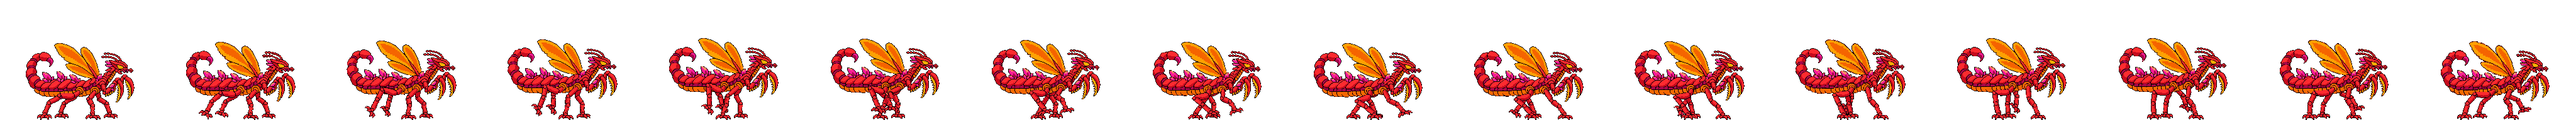
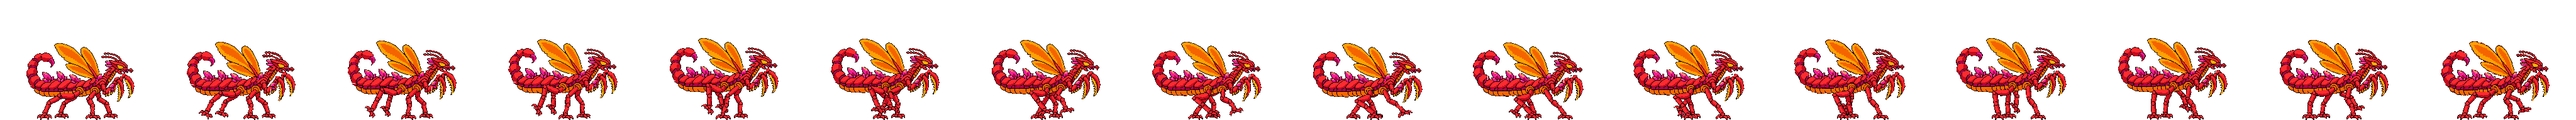
Swing Myrmex Stage 3's tail and scythe forelegs in the walk
tools/myrmex_s3_sway.py cuts the tail and arm pixels per frame (following
the bob) and rotates them RotSprite style about their roots: tail +/-5
deg, scythes +/-6 deg in opposite phase, one swing per stride.

Claude-Session: https://claude.ai/code/session_01SJ9dCvdt4BM19y3QYCELUi

diff --git a/tools/myrmex_s3_sway.py b/tools/myrmex_s3_sway.py
@@ -1,0 +1,53 @@
+#!/usr/bin/env python3
+"""Swing Myrmex Stage 3's tail and scythe forelegs on a finished strip (PixelLab moves only the body and legs).
+
+Usage: python3 -I tools/myrmex_s3_sway.py in.png out.png [--tail DEG] [--arms DEG] [--tail-phase P] [--arms-phase P] [--cycles N]
+
+Per frame the strip's own pixels are cut by region (offset by the frame's bob, measured from the top of the wings against frame 0),
+erased, rotated RotSprite style (Scale2x three times, rotate at 8x, sample centres) about a pivot and pasted back. Angles follow
+sin(2*pi*(N*i/frames + phase)); positive = clockwise (the tail tip leans forward, the blades swing back under the body).
+Regions are in base coordinates (myrmex-s3.png, 173x123 sprite at x=41, feet on row 191):
+  tail:  (x < 62 and y < 138) or (x < 88 and 81 <= y < 112), the curl above the back left of the first crystal; pivot (58, 135)
+  arms:  y < 170 and (x >= 195, y >= 119 | x >= 182, y >= 123 | x >= 174, y >= 133): both scythe forelegs, stepped round the jaw
+         (ends row 118) and the orange throat (x < 182 above row 133), clear of the front legs; pivot (176, 138) at the shoulder
+"""
+import argparse, math, numpy as np
+from PIL import Image
+ap = argparse.ArgumentParser(); ap.add_argument('src'); ap.add_argument('out')
+ap.add_argument('--tail', type=float, default=5); ap.add_argument('--arms', type=float, default=6)
+ap.add_argument('--tail-phase', type=float, default=.125); ap.add_argument('--arms-phase', type=float, default=.625)
+ap.add_argument('--cycles', type=float, default=1)
+A = ap.parse_args(); FW = 256
+
+def scale2x(im):
+    p = np.pad(im, ((1, 1), (1, 1), (0, 0)), mode='edge'); P = p[1:-1, 1:-1]
+    a, b, c, d = p[:-2, 1:-1], p[1:-1, 2:], p[1:-1, :-2], p[2:, 1:-1]; eq = lambda u, v: (u == v).all(-1)
+    o = np.repeat(np.repeat(P, 2, 0), 2, 1).copy()
+    c0 = eq(c, a) & ~eq(c, d) & ~eq(a, b); c1 = eq(a, b) & ~eq(a, c) & ~eq(b, d)
+    c2 = eq(d, c) & ~eq(d, b) & ~eq(c, a); c3 = eq(b, d) & ~eq(b, a) & ~eq(d, c)
+    o[0::2, 0::2][c0] = a[c0]; o[0::2, 1::2][c1] = b[c1]; o[1::2, 0::2][c2] = c[c2]; o[1::2, 1::2][c3] = d[c3]
+    return o
+
+def rot(layer, deg, cx, cy):
+    if abs(deg) < 1e-3: return layer
+    u = scale2x(scale2x(scale2x(layer))); H, W = layer.shape[:2]
+    gy, gx = np.mgrid[0:H, 0:W]; px, py = gx + .5 - cx, gy + .5 - cy; t = math.radians(deg)
+    sx = cx + px * math.cos(t) + py * math.sin(t); sy = cy - px * math.sin(t) + py * math.cos(t)
+    ix = np.floor(sx * 8).astype(int); iy = np.floor(sy * 8).astype(int)
+    ok = (ix >= 0) & (iy >= 0) & (ix < W * 8) & (iy < H * 8); o = np.zeros_like(layer); o[ok] = u[iy[ok], ix[ok]]
+    return o
+
+im = np.asarray(Image.open(A.src).convert('RGBA')).copy(); n = im.shape[1] // FW
+yy, xx = np.mgrid[0:im.shape[0], 0:FW]
+top = lambda f: int(np.nonzero((f[..., 3] > 0).any(1))[0].min()); t0 = top(im[:, :FW])
+PARTS = [('tail', lambda x, y: ((x < 62) & (y < 138)) | ((x < 88) & (y >= 81) & (y < 112)), (58, 135), A.tail, A.tail_phase),
+         ('arms', lambda x, y: (((x >= 195) & (y >= 119)) | ((x >= 182) & (y >= 123)) | ((x >= 174) & (y >= 133))) & (y < 170), (176, 138), A.arms, A.arms_phase)]
+for i in range(n):
+    f = im[:, i * FW:(i + 1) * FW]; dy = top(f) - t0
+    for name, region, (px, py), amp, ph in PARTS:
+        m = (f[..., 3] > 0) & region(xx, yy - dy)
+        layer = np.where(m[..., None], f, 0).astype(np.uint8); f[m] = 0
+        r = rot(layer, amp * math.sin(2 * math.pi * (A.cycles * i / n + ph)), px + .5, py + dy + .5)
+        k = r[..., 3] > 0; f[k] = r[k]
+Image.fromarray(im).save(A.out, optimize=True)
+print(f'{A.out}: {n} frames, tail +/-{A.tail} deg, arms +/-{A.arms} deg')

diff --git a/README.md b/README.md
@@ -89,7 +89,7 @@ Score is earned points minus actual HP damage penalty, including healed damage. 
 
 **Myrmex Stage 1 art (complete, registered as `stages[1]`):** `myrmex-s1.png` is the young form: a wingless red ant (glossy segmented abdomen over an orange underbelly, small orange wing buds, a narrow horned skull with a glowing yellow eye and curved mandibles, six long clawed legs, and a short stinger instead of the Stage 2 scorpion tail). Keyed from the user's transparent render with `tools/key_render.py` (grid 11.655x11.995 px per art pixel; `--square` squashed him about 3%, so the measured y period stays) to a 116x74 sprite at x=70, feet on the bottom row of a 256x192 frame (`MX1_NATIVE`: scale 116/256). The stinger tip glowed yellow-orange like Stage 2's and was recoloured to hue 290 at its own lightness (6 pixels) so it reads as poison, not fire. Registered as `MYRMEX_S1` (`stages[1]`, width 120, `borrow`), so every move without Stage 1 art plays the Stage 2 strip. `myrmex-s1-idle` (breathing loop, 8 frames at 8 fps) and `myrmex-s1-walk` (one full stride, 16 frames at 15 fps) are seed 7 PixMiniMax rolls from the base with it as the end pose (seed 0's walk left stray specks; the idles were near-identical); subject "a young red ant kaiju with a segmented glossy red abdomen, orange underbelly, small orange wing buds, horned narrow skull with a glowing yellow eye, curved mandibles, six long clawed legs and a short purple-tipped stinger", pose "standing on six legs facing right, head held level". fill_pinholes and remove_specks (MAX 3); the walk is bottom-aligned (`tools/bottom_align.py`), since it rode up to 6px high mid-stride. `myrmex-s1-run` (Shift / double-tap, 12 frames at 20 fps like Stage 2's) is a seed 0 roll from the base with it as the end pose: a low fast scuttle, legs churning in a tripod gait, head thrust forward (prompt: "fast scuttling run cycle in place: one full stride, legs churning quickly in an alternating tripod gait with long reaching steps, body held low and level, head thrust forward, antennae swept back, no dust or effects"; the user picked it over seed 7 and two 8-frame takes at 15 fps). fill_pinholes, remove_specks (MAX 3), bottom-aligned (it rode 1-2px high). **Jump** (he keeps the floaty jump, two wing-beat air jumps and glide from `MOVE.myrmex*` at every stage, with the wing buds selling it; all seed 7, the user's pick, every strip fill_pinholes / remove_specks (MAX 3) and bottom-aligned since physics moves him): `myrmex-s1-jump-rise` (9 frames at 24 fps, once) is a roll from the base with a free end: he crouches, pushes off, the legs tuck and the wing buds flick up (seed 0 came back down to the street mid-strip); its last frame is the air pose the rest are rolled from. `myrmex-s1-jump-air` (4-frame loop at 12 fps, closed on the air pose) buzzes the buds with the legs dangling; `myrmex-s1-jump-flap` (5 frames at 20 fps, once, played on each air jump as `jumpFlap`, so Stage 1 never flashes the Stage 2 winged flap) snaps the buds up and down as the legs kick; `myrmex-s1-jump-land` (5 frames at 20 fps, once) plants the legs and sinks, its last frame swapped for the exact base so it hands off to the idle cleanly. **Crouch** (shared crouch timing: 5 frames at 22 fps, a 4-frame loop at 6 fps, then the reverse; seed 7, the user's pick, all fill_pinholes / remove_specks (MAX 3) and bottom-aligned): `myrmex-s1-crouch-down` is a roll from the base with a free end that flattens him onto six splayed legs with the head dipped and the wing buds folded, 74px tall down to 48 (0.65, like Stage 2's; seed 0 only reached 56); `myrmex-s1-crouch` is a loop rolled from and closed on that pose (slow breathing, antennae twitching, stinger swaying); `myrmex-s1-crouch-up` is crouch-down reversed. That completes his Stage 1 movement set. **Light combo** (bite, bite, sting; 9 frames each at the shared 24/21/20 fps; PixMiniMax rolls from the base shifted 40px left, origin x=30, `MX1_LEFT`, with it as the end pose, then the exact shifted base appended as frame 9 since the roll's closing duplicate is dropped; the user's picks): `myrmex-s1-light1` (seed 7) rears the head back with the mandibles open, lunges and snaps shut (seed 0 threw a big yellow impact flash that read as fire); `myrmex-s1-light2` (seed 7) dips low and lunges further with the jaws gaping, then wrenches back up (seed 0 drew white slash crescents); `myrmex-s1-light3` (seed 0) is a belly sting: Stage 1's short stinger can't whip overhead like Stage 2's tail, so he curls the abdomen down and forward between his legs and sprays purple venom out ahead, prompted with no fire and no orange (seed 7 put an orange spark on the hit). Bites remove_specks (MAX 3) and fill_pinholes; the sting fill_pinholes only, so the venom spray survives. **Heavy**, a charged belly sting (seed 0, the user's pick; PixMiniMax rolls from the shifted base, `MX1_LEFT`, shared heavy timing, prompts say no fire/orange/yellow; fill_pinholes only so the venom survives): `myrmex-s1-heavy-rear` (5 frames at 20 fps, a free-ended roll) braces the legs and curls the abdomen down under him, a purple bead forming on the stinger; its last frame is the cocked pose; `myrmex-s1-heavy-hold` (4-frame loop at 10 fps, closed on the cocked pose) quivers as the bead swells and drips; `myrmex-s1-heavy-slam` (8 frames at 16 fps: frames 1-7 of a roll from the cocked pose to the shifted base, its first frame (the cocked pose) dropped so the strike starts on release, plus the exact shifted base) blasts a long magenta venom jet into a spiky splash on the street, droplets raining after, and settles (seed 7's thick stream looked like it came from the head). Pound (S+J) reuses the slam. **Venom Bomb** (L, held; the game draws the bomb; PixMiniMax rolls from the shifted base, `MX1_LEFT`; the user's pick after a redo): a first set curled the abdomen under him and swelled the bubble over his body, so the brew was re-rolled with all six feet planted and the body level, the legs straightened to stand him up tall and make room underneath (asking for him to lift his legs flipped him upright like a hanging wasp and floated him off the street in all three seeds). `myrmex-s1-spit-brew` (5 frames at 8 fps, once, seed 7; seed 21 drew a bonfire, seeds 0 and 42 swelled the bubble behind him) stands tall and tucks the abdomen under him as a glossy purple bubble swells on the stinger low between the hind legs; `myrmex-s1-spit-hold` (4-frame loop at 8 fps, closed on that pose, seed 7) wobbles and drips it; `myrmex-s1-spit-throw` (6 frames at 18 fps, `impact:1`, seed 7; seed 0 tipped him over with orange sparks) is frames 2 and 4-7 of a roll from the brew pose to the shifted base plus the exact base: frame 3, where the venom smeared across his body, is dropped, and the flying bubble is erased from the release on (purple pixels away from the body, then anything not connected to him; the bubble's outline over his near foreleg took the foot with it on the release frame). `mouth` [104,172] is the stinger tip on the release frame. fill_pinholes only. **Sting Dive** (his Slam, S in the air; the user's picks over three rounds): a head-first plunge like Stage 2's came first, then the user asked for him to fall stinger-first like an attacking wasp, then for it angled slightly forward. `myrmex-s1-dive` (4 frames at 24 fps, held on the last) is frames 0, 3, 5 and 8 of a seed 21 PixMiniMax roll from the jump-air pose (he swings the abdomen down under him until the stinger points at the street, legs spread, a long purple glow trailing off the stinger; seed 0 shot fire out of the stinger), tilted forward 0/10/20/25 degrees by `tools/rotsprite_tilt.py` (new: RotSprite-style rotation, Scale2x three times then nearest at 8x, sampled at pixel centres, then bottom-aligned) so he leans into the fall with the stinger leading at the back. `myrmex-s1-slam-land` (8 frames at 16 fps) is frames 1-7 of a seed 7 roll from the tilted plunge to the base plus the exact base: the stinger punches into the street in a spiky purple burst, he tips forward onto his legs and stands (both seed 21 landings burst into orange fire). fill_pinholes only. **Climb** (`myrmex-s1-climb-grab/climb/climb-punch/climb-mantle`, 256x256 frames, `MX1_NATIVE`, shared climb timing; seed 7, the user's pick): as with Stage 2, `myrmex-s1-climb` is his own walk strip turned a quarter turn counter-clockwise (head up, belly to the wall, every leg stepping), 16 frames at 15 fps, placed 40px left and 70px down so the feet sit on the wall line at frame x=151 (the hitbox edge: 24 world units out at 116px per 120 units) and the abdomen reaches the bottom row. The grab (5 frames at 20 fps) is frames 0, 2, 3 and 6 of a leap roll from the base padded 64px on top, ending on the turned base pose; the roll leapt right into the wall (out to x=226), so the three mid-leap frames are pulled left until nothing passes the wall line (seed 0 lurched further left). The punch (8 frames at 24 fps, `impact:4`) rears back and slams the mandibles and front claws into the wall with a white flash on frame 4 (seed 0 burst into fire). The mantle (9 frames at 20 fps) is rolled from the turned pose to the padded base, up and over onto his legs, starting 13px back (Stage 2's 17px scaled) and easing to 0 for the roof slide, its last frame the exact padded base. fill_pinholes only. **Grab/carry/throw in the mandibles** (`bite`; seed 0, the user's pick): `myrmex-s1-grab` (9 frames at 22 fps, a PixMiniMax roll from the shifted base, `MX1_LEFT`, plus the exact base) lowers the head to the street, clamps the mandibles and lifts back to standing (seed 7 reached a little further and held the clamp longer). The carry and carry-walk reuse his idle and walk strips with the prop at the jaw tip. `myrmex-s1-throw` (6 frames at 18 fps) is frames 3-7 of a roll plus the base, since the prop launches on the key press: he whips the head forward with the mandibles opening; the roll trailed red and yellow crescent streaks that read as fire, erased by keeping only the pixels connected to him. `hold` is the jaw tip (the rightmost point of the head, searched above the feet so a reaching foreleg doesn't count) on every frame, measured automatically; on the grab the prop waits on the street at the bite spot until the jaws reach it (frame 3). remove_specks (MAX 3), fill_pinholes. **The Swarm (his Ultimate, U;** 256x256 frames, the base padded 64px on top, `MX1_NATIVE`; the game draws the drones; the user's pick): `myrmex-s1-ult-charge` (13 frames at 20 fps = `swarmCharge`, a seed 21 PixMiniMax roll from the padded base prompted for only a little swelling) hunches him as the abdomen pulses purple three times (seed 0 ballooned the abdomen to twice its size; seeds 7 and 42 set him on fire). Every roar, hold and settle PixelLab rolled opened his jaws like a vertebrate roaring, even prompted for closed mandibles, so only the charge supplies his body: `myrmex-s1-ult-roar` (8 frames at 18 fps, `impact:4`) is the last charge frame with the starburst lifted out of a seed 0 roar roll (its magenta, purple and white pixels only) composited over it; where the roll's own body had covered the burst and his doesn't, the gap takes the nearest burst colour, and his body under the burst is tinted magenta as if lit. `mouth` [105,164] is the burst's white core on the impact frame. `myrmex-s1-ult-pound` (4-frame loop at 10 fps) is the charge's last four frames (one pulses); `myrmex-s1-ult-settle` (8 frames at 14 fps) is charge frames 11, 9, 6, 3, 2, 1, 0 plus the exact padded base, the hunch played back to standing. He stays on six legs (no rear-up as Stage 2's does); the burst carries it. That completes Myrmex Stage 1: every move has its own strip (`borrow` stays as a safety net).
 
-**Myrmex Stage 3 art (just started, registered as `stages[3]`):** `myrmex-s3.png` is the adult: a red winged scorpion-ant on four long clawed walking legs, jagged scythe forelegs folded under a horned head (glowing yellow eye, long antennae), four orange wasp wings, pink crystal shards along the armoured back over an orange underbelly, and a curled scorpion tail with a magenta stinger (already poison-coloured). It's the user's second, thin-outline render (1536x1024, transparent; the first, heavily outlined one keyed to only 127x91 and PixelLab filled its narrow gaps with smear) keyed with `tools/key_render.py --square` (the y rhythm locked onto the half-period, so the x period of 8.02 is reused) to a 173x123 sprite at x=41, feet on the bottom row of a 256x192 frame (`MX3_NATIVE`: scale 173/256), then median-cut from ~5000 colours to 47 so the strips have a flat palette to snap back to. Registered as `MYRMEX_S3` (`stages[3]`, width 120, `borrow`), so every move without Stage 3 art plays the Stage 2 strip. `myrmex-s3-idle` (breathing loop, 8 frames at 8 fps, seed 0) and `myrmex-s3-walk` (one full stride, 16 frames at 15 fps, seed 7) are PixMiniMax rolls from the base with it as the end pose. The first walk prompt ("walking forward loop... body level, wings folded still") moved only the legs; the walk is re-prompted "heavy walking loop, one full stride of the four legs in diagonal pairs; the whole body bobs down and up with each step, the curled tail sways and bounces, the head bobs and the scythe forelegs swing slightly, wings twitch", and seed 7 gives an even 8px bob twice per stride (seed 0 and 21 bobbed less evenly); subject "an adult red winged scorpion-ant kaiju: curled scorpion tail with a magenta stinger, pink crystals along a long red armoured back, orange underbelly, four orange wasp wings, horned head with a glowing yellow eye, folded scythe forelegs, four long clawed legs", pose "standing on four legs facing right, scythe forelegs folded, head held high". Cleanup: **no fill_pinholes** (it reads the thin gaps behind the wings, between the legs and around the antennae as cracks and fills them black) and **no clean_greys** (PixelLab draws this sprite's outline in dark greys like (32,34,36), which that tool deletes). Instead `tools/snap_palette.py` snaps every pixel to the base's 47 colours, so the grey outline lands back on outline black and the edge smear on the nearest body colour, with nothing deleted; then remove_specks (MAX 4); the walk is bottom-aligned. Use the same chain for every Stage 3 strip.
+**Myrmex Stage 3 art (just started, registered as `stages[3]`):** `myrmex-s3.png` is the adult: a red winged scorpion-ant on four long clawed walking legs, jagged scythe forelegs folded under a horned head (glowing yellow eye, long antennae), four orange wasp wings, pink crystal shards along the armoured back over an orange underbelly, and a curled scorpion tail with a magenta stinger (already poison-coloured). It's the user's second, thin-outline render (1536x1024, transparent; the first, heavily outlined one keyed to only 127x91 and PixelLab filled its narrow gaps with smear) keyed with `tools/key_render.py --square` (the y rhythm locked onto the half-period, so the x period of 8.02 is reused) to a 173x123 sprite at x=41, feet on the bottom row of a 256x192 frame (`MX3_NATIVE`: scale 173/256), then median-cut from ~5000 colours to 47 so the strips have a flat palette to snap back to. Registered as `MYRMEX_S3` (`stages[3]`, width 120, `borrow`), so every move without Stage 3 art plays the Stage 2 strip. `myrmex-s3-idle` (breathing loop, 8 frames at 8 fps, seed 0) and `myrmex-s3-walk` (one full stride, 16 frames at 15 fps, seed 7) are PixMiniMax rolls from the base with it as the end pose. The first walk prompt ("walking forward loop... body level, wings folded still") moved only the legs; the walk is re-prompted "heavy walking loop, one full stride of the four legs in diagonal pairs; the whole body bobs down and up with each step, the curled tail sways and bounces, the head bobs and the scythe forelegs swing slightly, wings twitch", and seed 7 gives an even 8px bob twice per stride (seed 0 and 21 bobbed less evenly); PixelLab still moved the tail and scythe forelegs only with the bob, so `tools/myrmex_s3_sway.py` swings them on the finished strip: per frame it cuts the strip's own tail and arm pixels by region (offset by the frame's bob), rotates them RotSprite style and pastes them back. The tail sways ±5° about its root (58,135), one sway per stride; the scythes swing ±6° about the shoulder (176,138), in opposite phase. The arm region steps round the jaw and the orange throat, and the tail region stays below the wing tip (both spelled out in the script). Run it after snap/despeck/bottom-align. subject "an adult red winged scorpion-ant kaiju: curled scorpion tail with a magenta stinger, pink crystals along a long red armoured back, orange underbelly, four orange wasp wings, horned head with a glowing yellow eye, folded scythe forelegs, four long clawed legs", pose "standing on four legs facing right, scythe forelegs folded, head held high". Cleanup: **no fill_pinholes** (it reads the thin gaps behind the wings, between the legs and around the antennae as cracks and fills them black) and **no clean_greys** (PixelLab draws this sprite's outline in dark greys like (32,34,36), which that tool deletes). Instead `tools/snap_palette.py` snaps every pixel to the base's 47 colours, so the grey outline lands back on outline black and the edge smear on the nearest body colour, with nothing deleted; then remove_specks (MAX 4); the walk is bottom-aligned. Use the same chain for every Stage 3 strip.
 **Belial Stage 1 art (complete):** `belial-s1.png` is a lean juvenile of the Stage 2 design: slimmer body, short nub spines, thin whip tail, the neck gland reduced to green drool, same grey-green hide and umber tiger stripes. There was no render for it, so it's a PixelLab Pixen edit (`/edit-image-pixen`, seed 7) of the Stage 2 base shrunk to 62% (Lanczos, feet on the bottom row) with a prompt for a younger, smaller, leaner version that keeps the low head, slitted eye and teeth (a first "hatchling" prompt came out big-eyed and cute). It's a 145x54 sprite at x=57, feet on the bottom row of a 256x192 frame (`BL1_NATIVE`: scale 145/256), fill_pinholes only. Registered as `BELIAL_S1` (`stages[1]`, width 120, `borrow`), so every move without Stage 1 art plays the Stage 2 strip. `belial-s1-idle` (breathing loop, 8 frames at 8 fps: head dips, drool drips and falls) and `belial-s1-walk` (stalking crawl, one full four-leg stride in 16 frames at 15 fps, like Stage 2's) are seed 7 PixelLab rolls from the base with it as the end pose (seed 0 was close but steppier); subject "a young lean grey-green reptile kaiju with dark umber-grey tiger stripes, small spikes along its back, a long thin tail, and green acid drool", pose "standing low on all four legs facing right, head held level". fill_pinholes only: remove_specks would eat the falling acid drops. The walk isn't bottom-aligned (it rides 1-2px high mid-stride, like Stage 2's). `belial-s1-run` (8 frames at 15 fps) is a low bounding gallop rolled from the base with it as the end pose (seed 0; seed 7 sat on the base pose for its first three frames): the body stretches long, frame 4 is the flight phase, dust kicks back; fill_pinholes, remove_specks. Jump (`belial-s1-jump-rise/air/land`, 9 frames at 24 fps, a 4-frame loop at 8 fps, 5 frames at 20 fps like the other forms): rise is a roll from the base (seed 7; seed 0 stood up tall mid-squat) that squats, coils the tail up over his back and springs into a level, legs-tucked leap. Air is frames 0,1,2,1 of a 4-frame roll from the rise's last frame (seed 0). Land is frames 1-4 of a roll from that frame with the base as end pose (seed 7) plus the exact base: legs reach down with the tail flung up, then he squashes and stands. Crouch (5 frames at 22 fps, a breathing loop at 6 fps, then the reverse): `belial-s1-crouch-down` is a roll from the base (seed 7; seed 0 grew the spines to adult size) that splays the legs and presses belly and chin flat, 54px tall down to about 32. `belial-s1-crouch` is a roll from that last pose with it as the end pose (seed 7); all five frames are kept, since the fifth is the in-between that closes the loop smoothly. `belial-s1-crouch-up` is crouch-down reversed. Jump and crouch strips: remove_specks (MAX 40, so detached acid drops don't throw off the alignment), bottom_align, fill_pinholes. Light combo (`belial-s1-light1..3`, 8 frames each at 24/21/20 fps, `once`): forward claw swipe, backhand rake, and a gaping lunge that snaps shut in a puff of acid. They're generated from the base shifted 40px left (`BL1_LEFT`, sprite at x=17), with it as first and last frame. Light1 and light3 are seed 0. Light2 is a re-roll (seed 45) with a prompt asking for a thin streak: seed 0 left a grey blob in the slash and seed 7's arc swallowed him. Light3's tail tip grazes the left edge on frame 2 (3px) and its spray the right on frames 5-6. fill_pinholes, remove_specks. Heavy, the scorpion tail strike (`belial-s1-heavy-rear/hold/slam`: 5 frames at 20 fps, a 4-frame loop at 10 fps, 8 frames at 16 fps; 256x256 frames with the shifted base padded 64px on top): rear is a roll from the base (seed 0; seed 7's tail barely cleared his back) that curls the tail up and forward over his back. Hold (seed 0) quivers it, a loop closed on the rear's last frame. Slam is frames 1-8 of a roll from that frame ending on the base (seed 0; seed 7 wound up for two more frames before striking): the tail whips over his head and slashes down in front of the snout in an acid splash, spatter, and he straightens. Rear had its detached drool drop removed (remove_specks MAX 40) before hold and slam were rolled from it. All three: fill_pinholes, remove_specks, bottom_align (PixelLab left them 1px high). Acid Vomit (`belial-s1-vomit-start/aim/end`, 5 frames at 20 fps, 7 aim frames, 4 frames at 16 fps, `BL1_LEFT`): start is frames 1, 2, 4, 5 and 8 of a heave-and-gape roll from the shifted base (seed 0, chosen over seed 7 because its glow swells the throat like Stage 2's gland rather than the belly); frames 6-7 drew their own acid blast and are skipped, and the detached ring of spray left on frame 8 was erased (remove_specks MAX 600), since the game draws the stream. Aim is seven gape frames rolled from that gape (seed 0 both ways; seed 7's raise dripped a stream): frames 2 and 1 of a chin-tuck roll, the gape itself, and frames 2, 4, 6 and 8 of a silent-roar neck-raise roll. As on Stage 2, the mouth opening barely turns as the neck rises, so `angles` [-25,-12,0,8,18,32,45] follow the head-and-neck pose; the tucked frames really point about -30° and -15°, and a deeper -42° tuck was dropped since the aim stops at -25°. `mouth` is the midpoint of the jaw tips read off a grid (a script that took the biggest acid-green blob found the throat glow instead). End is frames 1-3 of a gag-and-snap roll from the gape closed on the shifted base (seed 0, its detached acid crescent erased; seed 7 left splatter stuck to the head) plus the exact shifted base. remove_specks (MAX 40 on aim), fill_pinholes. Acid Pounce: art is 256x256 from the base padded 64px on top (`BL1_NATIVE`). `belial-s1-dive` is frames 0, 5, 7 and 8 of an 8-frame roll from the Stage 1 jump-air pose padded the same way (seed 7; seed 0 reared nose-up for most of the roll before tipping over): he gathers, then tips into a steep nose-down plunge, claws splayed, jaws open, tail whipped up; bottom-aligned, fill_pinholes, held on the last frame. `belial-s1-slam-land` is frames 1-7 of a roll from that plunge with the padded base as end pose (seed 0; seed 7 hung in the air a frame longer before the splash) plus the exact padded base: claws and chest hit in a big acid splash both ways, a belly-flop in the spatter, and he pushes back up. fill_pinholes only, so the droplets survive. The splash spans the frame and grazes its right edge (2-10px) on frames 1-4. Climb (`belial-s1-climb-grab/climb/climb-punch/climb-mantle`, 256x256 with the base padded to 256 tall, `BL1_NATIVE`): a vertical gecko cling, head up, tail hanging to the bottom row, the gripping claws on the wall line at frame x=158 (the hitbox edge, 24 world units out at k=120/145). Grab is frames 0-3 and 8 of a rear-and-leap roll from the padded base (seed 0; seed 7 painted a wall), detached drool dropped, eased 46px left and 99px down onto the wall line (ease 0, .1, .4, .75, 1, so he doesn't slide while still on the ground; the vertical ease is capped so feet never leave the frame). The loop (closed on the cling; the tail lifts up to 9px off the bottom mid-loop), punch (acid-green flash from frame 5, so `impact:5`) and mantle (ends on the exact padded base, starts 17px back for the roof slide, 0.3 x 48 units, easing to 0) are seed 0 rolls from the placed cling frame. PixelLab drew a wall and roof outline on mantle frames 3-6 in two pale shades, 2px wide: detached pieces were removed, 1-2px-wide straight runs of those colours erased, and the stretch crossing his hind leg on frame 3 erased by hand. fill_pinholes, remove_specks (MAX 6). Grab/carry/throw in the jaws (`belial-s1-grab/carry/carry-walk/throw`, 256x256 from the left-shifted base padded 64px on top, `BL1_LEFT`): the grab (seed 7; seed 0 lifted sooner and lower) gapes, drops the head to the street to bite, and hauls the neck up with the jaws clamped; acid puddles PixelLab left on the street under the jaws (frames 2-6) were erased. Carry (strain loop, 4 frames at 6 fps) and carry-walk (one four-leg stalking stride, head held up, 8 frames at 10 fps) are seed 0 loops from the lift frame. The throw is frames 2-7 of a roll from it (seed 7; seed 0 glitched a brown crest onto the head) plus the exact shifted base: the jaws spring open in an acid burst (detached arcs erased, remove_specks MAX 600) and he settles. Frames 0-1 only held the pose, and the prop launches on the key press. `bite` is set; each `hold` is where the jaws close, read off a grid: the bite spot on the street for frames 0-5 (around (160,248)), then following the jaws up to (141,204). Carry and carry-walk use the same offset from the snout tip as the lift frame. Acid Deluge, his Ultimate (`belial-s1-ult-charge/roar/pound/settle`, 256x256 from the base padded to 256 tall, `BL1_NATIVE`): charge is 13 frames at 20 fps (= `delugeCharge`), a roll from the base (seed 7; seed 0's sac ballooned so big it hunched his whole body). The throat swells into a huge glowing sac as he plants and heaves. Roar is 9 frames at 18 fps from the last charge frame (seed 0, prompted as a silent roar at the sky; its detached acid spray was erased, while seed 7's spray was fused to the mouth): he rears straight up onto hind legs and tail, jaws open at the sky. He's fully reared on frame 2, so `impact:2` (Stage 2's is 4), and the geyser goes up 0.11s into the roar instead of 0.22s. Pound is a 4-frame pumping hold closed on the roar's last frame (seed 0). Settle is frames 2-7 of a roll back to the base (seed 0) plus the exact base, 7 frames at 14 fps. `mouth` (112,148) is the midpoint of the jaw tips on every reared frame and the hold. `pound` (S+J) points at his Stage 1 heavy slam, as on Stage 2. Cleanup: remove_specks, bottom_align, fill_pinholes. With this, Belial's Stage 1 form has every move; `borrow` stays as a safety net.
 **Belial Stage 3 art (complete, registered as `stages[3]`):** `belial-s3.png` is the adult: hunched up on his hind legs with clawed arms forward, the Stage 2 grey-green hide and umber-grey stripes, big umber blade spines down the back and tail, clusters of pink crystal shards between the back spines and one on the arm, a lime acid gland on the neck and lime drool. It's the user's transparent render (1672x941) keyed with `tools/key_render.py --period 8.04`: the automatic measurement locked onto the 4.09px half-period on x (and 7.34 on y), and the render's stair-steps are about 8px both ways, so the period is forced square (8.04 is the x spectrum's own peak) and only the phase is measured. 200x113 sprite at x=28, feet on the bottom row of a 256x192 frame (`BL3_NATIVE`: scale 200/256). The render came out olive with saturated rust spines, an orange gland and ~6000 colours of glossy shading, so it didn't read as the same creature; `tools/belial_s3_restyle.py` remaps it onto the Stage 2 palette by class (hide to hue 95/sat .14, spines and stripes to hue 24/sat .22, gland/drool/claws to Stage 2's lime, hue 68/sat .7; crystals and outline untouched, lightness kept) and median-cuts it to 48 colours (45 used) to flatten the gloss. Run it on the keyed render, not on strips. Registered as `BELIAL_S3` (`stages[3]`, width 120); every move has its own strip, and `borrow` stays as a safety net for strips added to Stage 2 later. `belial-s3-idle` (8 frames at 8 fps) and `belial-s3-walk` (one full stride in 16 frames at 15 fps) are seed 0 PixelLab rolls from the restyled base with it as the end pose; they keep the palette without a recolour (hide median hue 93-94, sat .14). Subject "a huge muscular semi-upright grey-green reptile kaiju with dark umber-grey stripes, large umber-brown blade spines down its back and tail, pink crystal shards growing between the back spines, a yellow-green acid gland on the neck and yellow-green acid drool", pose "standing hunched on its hind legs facing right, clawed arms held forward, long tail straight out behind". fill_pinholes only, so the drool drops survive; the walk rides 1-2px high mid-stride like the other forms'. `belial-s3-run` (8 frames at 15 fps) is skeleton-posed, like Tlézcatl Stage 3's: the first text-prompted roll limped (each foot stepped around its own spot and the arms didn't alternate). `tools/belial-s3-skeleton.json` is PixelLab's `/estimate-skeleton` on the base pasted at y=64 in a 256x256 frame; `tools/belial_s3_run_poses.py` (adapted from `tlezcatl_s3_run_poses.py`; hips pulled onto one pelvis, ankle line y=243, stride centre x=150, thigh/shin 22/21) runs both feet on the same cycle half a beat apart, with a flight phase at full extension, the body pitched forward 8° and sinking over the planted leg, and the arms pumping opposite the legs. Rendered with `tools/pixellab_skeleton.py` (`/animate-with-skeleton-v3`, seed 7; seed 0 painted the far leg as a smeared blob on frames 5-6), the bottom 192 rows cropped so it lines up with `BL3_NATIVE`, fill_pinholes. Jump (`belial-s3-jump-rise/air/land`, 9 frames at 24 fps, a 4-frame loop at 8 fps, 5 frames at 20 fps like the other forms): rise is a roll from the base that sinks onto bent legs with the arms swung back and springs off both feet into a level, legs-tucked leap; air is frames 0,1,2,1 of a 4-frame roll from the rise's last frame (only the tail sways); land is frames 1-4 of a roll from that frame with the base as end pose (reaches down, hits with the tail flung up, squashes) plus the exact base. Crouch (5 frames at 22 fps, a 4-frame breathing loop at 6 fps, then the reverse): `belial-s3-crouch-down` drops from the hunch onto all fours with belly and chin low, 113px tall to about 92 (the spine crest and crystals stay up; the hitbox is `crouchHeight`, not the art); `belial-s3-crouch` is a breathing loop rolled from that last pose with it as the end pose; `belial-s3-crouch-up` is crouch-down reversed. Jump and crouch: remove_specks, bottom_align, fill_pinholes. All seed 0, one roll each, same subject as the idle. Light combo (`belial-s3-light1..3`, 8 frames each at 24/21/20 fps, `once`, like Stage 2's), from the base shifted flush left (`BL3_LEFT`, sprite at x=0, 28px more reach). The two swipes use one hand each: text prompts for "near claw" and "far claw" drew both with the same hand, so they're skeleton-posed. `tools/belial_s3_light_poses.py` moves only one arm of the estimated skeleton (shifted 28px left; the estimate marks the RIGHT arm near, z 0, and the LEFT far, z -4), with the upper body pitching into the strike, over 7 frames ending in the base pose. Light1 (`near`) raises the near hand over the head and rakes it down and across with a lime streak; light2 (`far`) shoots the far hand out past the snout from behind the jaw, the body lunging after it, and hooks it down with a lime crescent. Rendered with `/animate-with-skeleton-v3` (seed 0, description mentions the acid-green slash streak) and prefixed with the shifted base. Light1's streak is still fading on its last frame. Light3 (seed 0) snaps shut in a puff of acid. Light3's puff grazes the right edge for a frame or two. Heavy, the scorpion tail strike (`belial-s3-heavy-rear/hold/slam`: 5 frames at 20 fps, a 4-frame loop at 10 fps, 8 frames at 16 fps; 256x256 from the shifted base): his tail ends in a big hooked blade, larger than Stage 1's or 2's. Rear is a seed 7 roll (seed 0 only lifted the blade to the shoulder spines) that swings the tail up into a tall curl with the blade above his head, pointing forward. The hold and slam are rolled from rear's last frame; the slam ends on the shifted base and its first frame (the hold pose) is dropped. The slam's first strike frame drew a pink-and-white arc; that floating smear (2436 px, mostly ringed by transparency, not outline) was recoloured to the lime of the light slashes. The arc grazes the right edge on frames 0-4. Lights and heavy: fill_pinholes, remove_specks. Acid Vomit (`belial-s3-vomit-start/aim/end`, 5 frames at 20 fps, 7 aim frames, 4 frames at 16 fps, `BL3_LEFT`): start is frames 1, 3, 4, 5 and 8 of a heave-and-gape roll from the shifted base (seed 0; the prompt avoids the word vomit so PixelLab doesn't draw its own stream). Its swell frames painted the gland as a flat pure-yellow disc, so those pixels were repainted from frame 0's ribbed gland at 1.45x lightness (a glowing gland, not a sticker); the detached spray on frame 8 was erased (remove_specks MAX 60). Aim keeps the gape at seven head angles: frame 3 of a seed 7 chin-tuck roll (-25), frame 1 of a seed 0 chin-tuck roll (-12; its later frames shut the jaws), the gape itself (0), and frames 2, 4, 6 and 8 of a silent-roar neck-raise roll (8, 18, 32, 45). A skeleton-posed aim pass (`tools/belial_s3_aim_poses.py`, head turned about the neck, neck and shoulders following at 40%) got the angles but closed the jaws and lost the head spines on the high frames, so it wasn't used. `mouth` is the midpoint of the jaw tips read off a 4px grid. End is frames 1-3 of a gag-and-snap roll from the gape closed on the shifted base (tongue lashes out, jaws snap shut) plus the exact shifted base. remove_specks (MAX 40 on aim), fill_pinholes. Acid Pounce (256x256 from the base padded 64px on top, `BL3_NATIVE`): `belial-s3-dive` is frames 0, 3, 5 and 7 of an 8-frame roll from the Stage 3 jump-air pose padded the same way (seed 0): he gathers, then tips into a steep nose-down plunge, claws reaching, jaws open, tail whipped up; bottom-aligned, fill_pinholes, remove_specks, held on the last frame. `belial-s3-slam-land` is frames 1-7 of a roll from that plunge with the padded base as end pose (seed 0) plus the exact base: claws and chest hit, a huge lime splash bursts both ways (frame 2 nearly hides him), splash rings and spatter fly, he belly-flops and pushes back up into the hunch; fill_pinholes only, so the droplets survive. Climb (`belial-s3-climb-grab/climb/climb-punch/climb-mantle`, 256x256 with the base padded to 256 tall, `BL3_NATIVE`): a vertical gecko cling, back to the street, head up, tail hanging to the bottom row, the gripping claws on the wall line at frame x=168 (the hitbox edge, 24 world units out at k=120/200). Grab is frames 0, 2, 3, 4 and 8 of a crouch-and-leap roll from the padded base (seed 0), eased 87px left and 42px down onto the wall line (ease 0, .1, .4, .75, 1; the vertical ease is capped so feet never leave the frame). The loop (closed on the cling) and punch (lime flash from frame 4, so `impact:4`; it spikes past the top of the frame on frames 5-6) are seed 0 rolls from the placed cling. The mantle is a seed 7 roll from the cling to the padded base, shifted 24px back on its first frame and easing to 0 (the roof slide, 0.3 x 48 units): the seed 0 roll drew a dark roof-ledge bar under the claws on frames 1-7, and the re-roll's prompt leaves out "edge" and "rooftop" and asks for no ground or ledge. fill_pinholes, remove_specks (MAX 6). Grab/carry/throw (`belial-s3-grab/carry/carry-walk/throw`, 256x256 from the base padded to 256 tall, `BL3_NATIVE`): he's bipedal now, so he lifts in both claws like Tlézcatl Stage 3, not in the jaws (no `bite`). All generated without any object, since the game draws the prop. The grab (9 frames at 22 fps, seed 0) bends over and scoops both claws along the street, rears up and raises both arms straight up with the claws together overhead, head tipped back. The carry (4-frame strain loop at 6 fps, seed 0) is rolled from that last frame and closed on it. The text-prompted carry-walk limped (the near foot stayed planted while only the far leg swung), so it's skeleton-posed: `tools/belial-s3-carry-skeleton.json` is `/estimate-skeleton` on the lift frame, with the near arm (dropped to his side by the estimate) set by hand up to the joined claws, and `tools/belial_s3_carry_walk_poses.py` runs both feet on one step cycle half a beat apart from the lift pose's own stance, so the 8-frame loop (10 fps) closes on it, with the body bobbing up as the legs pass. The throw (8 frames at 18 fps) is frames 1-7 of a roll from the lift frame to the padded base plus the exact base: both arms whip forward and down. Its swooshes on frames 1-2 came out brown, so the largest warm component on each (1394 and 2014 px, far bigger than any spine) was recoloured to the light slashes' lime. `hold` is the prop's bottom centre: on the street under the front claws for frames 0-4, following the hands up on 5-7, then the top of the joined claws, measured per frame on the carry loops. fill_pinholes, remove_specks (MAX 6). Acid Deluge, his Ultimate (`belial-s3-ult-charge/roar/pound/settle`, 256x256 from the base padded to 256 tall, `BL3_NATIVE`): charge is 13 frames at 20 fps (= `delugeCharge`), a seed 0 roll from the base: he plants and heaves while the neck gland swells into a huge, properly shaded sac. Roar is 9 frames at 18 fps from the last charge frame (seed 0, a silent roar at the sky): he rears straight up on his hind legs to the top of the frame (head at y=1-2, not clipped), sac squeezing, jaws thrown open at the sky. He's fully reared on frame 2, so `impact:2`, like Stage 1. Pound is a 4-frame pumping hold closed on the roar's last frame (seed 0). Settle is frames 2-7 of a roll back to the base (seed 0) plus the exact base, 7 frames at 14 fps: the sac shrinks, the jaws snap shut and he drops back into the hunch. `mouth` (136,18) is the midpoint of the jaw tips on every reared frame and the hold. `pound` (S+J) points at his Stage 3 heavy slam, as on Stages 1 and 2. Cleanup: remove_specks, bottom_align, fill_pinholes. With this, Belial's Stage 3 form has every move. `tools/pixellab_edit.py` wraps the Pixen edit endpoint used for Stage 1's base (Pixen candidates for Stage 3 were tried before the render arrived).
 
